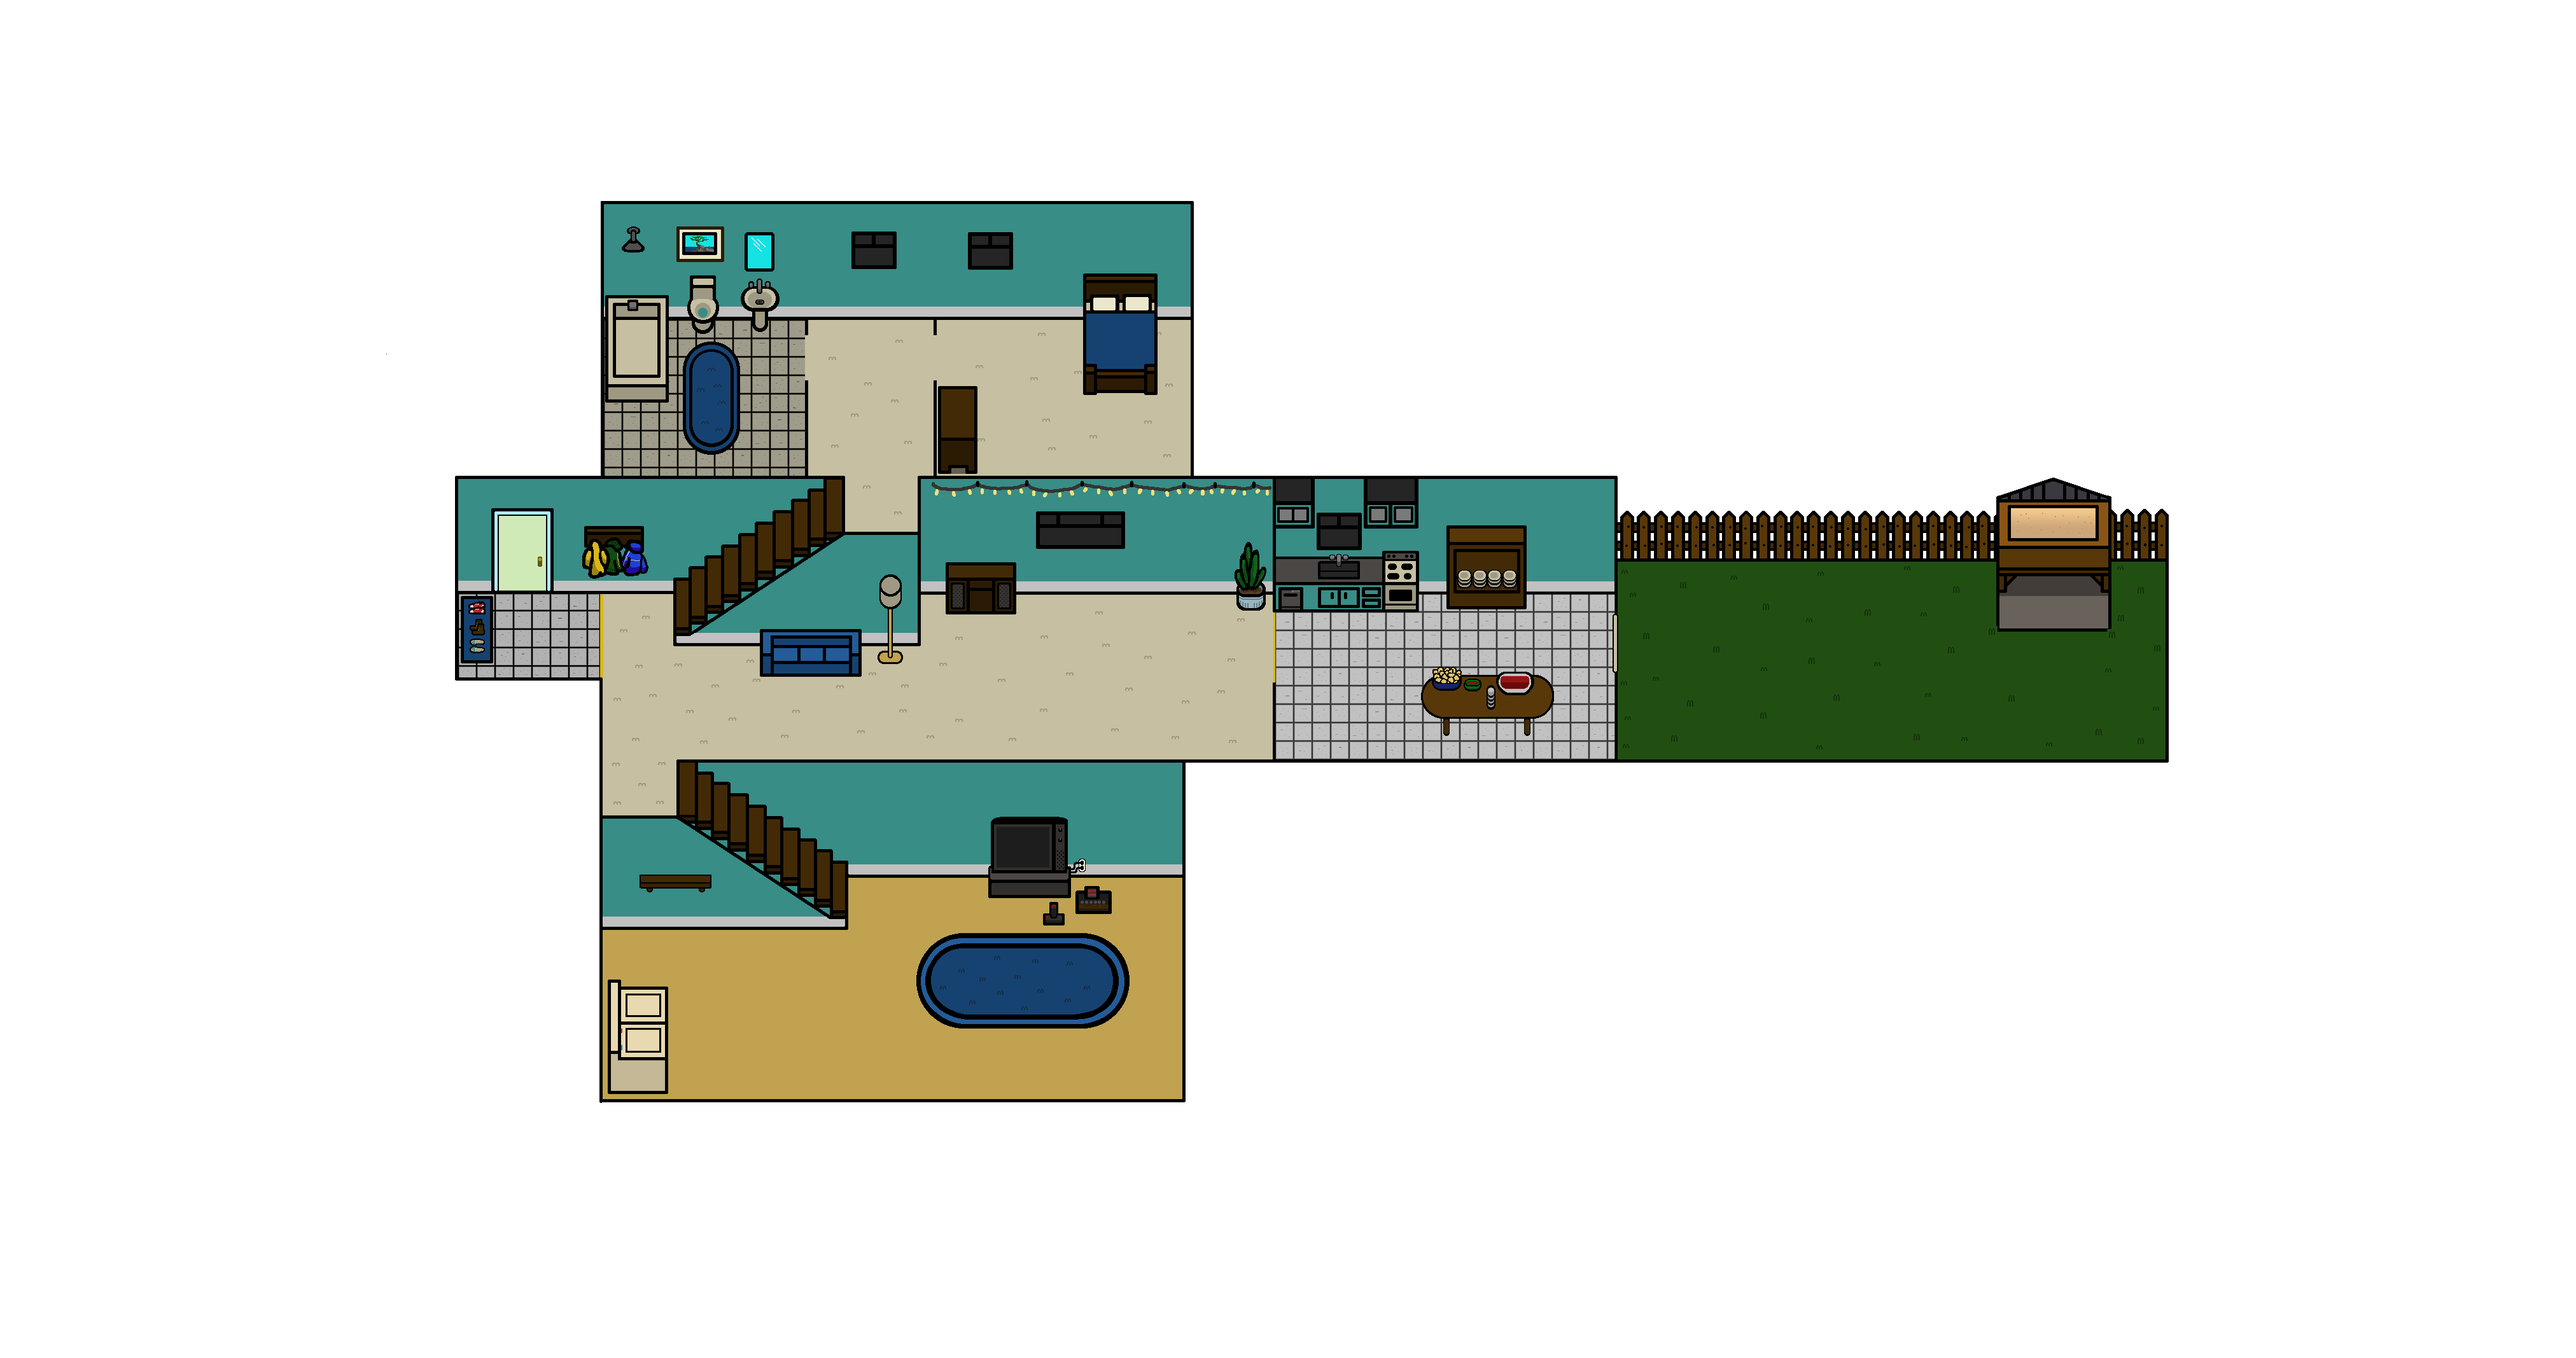
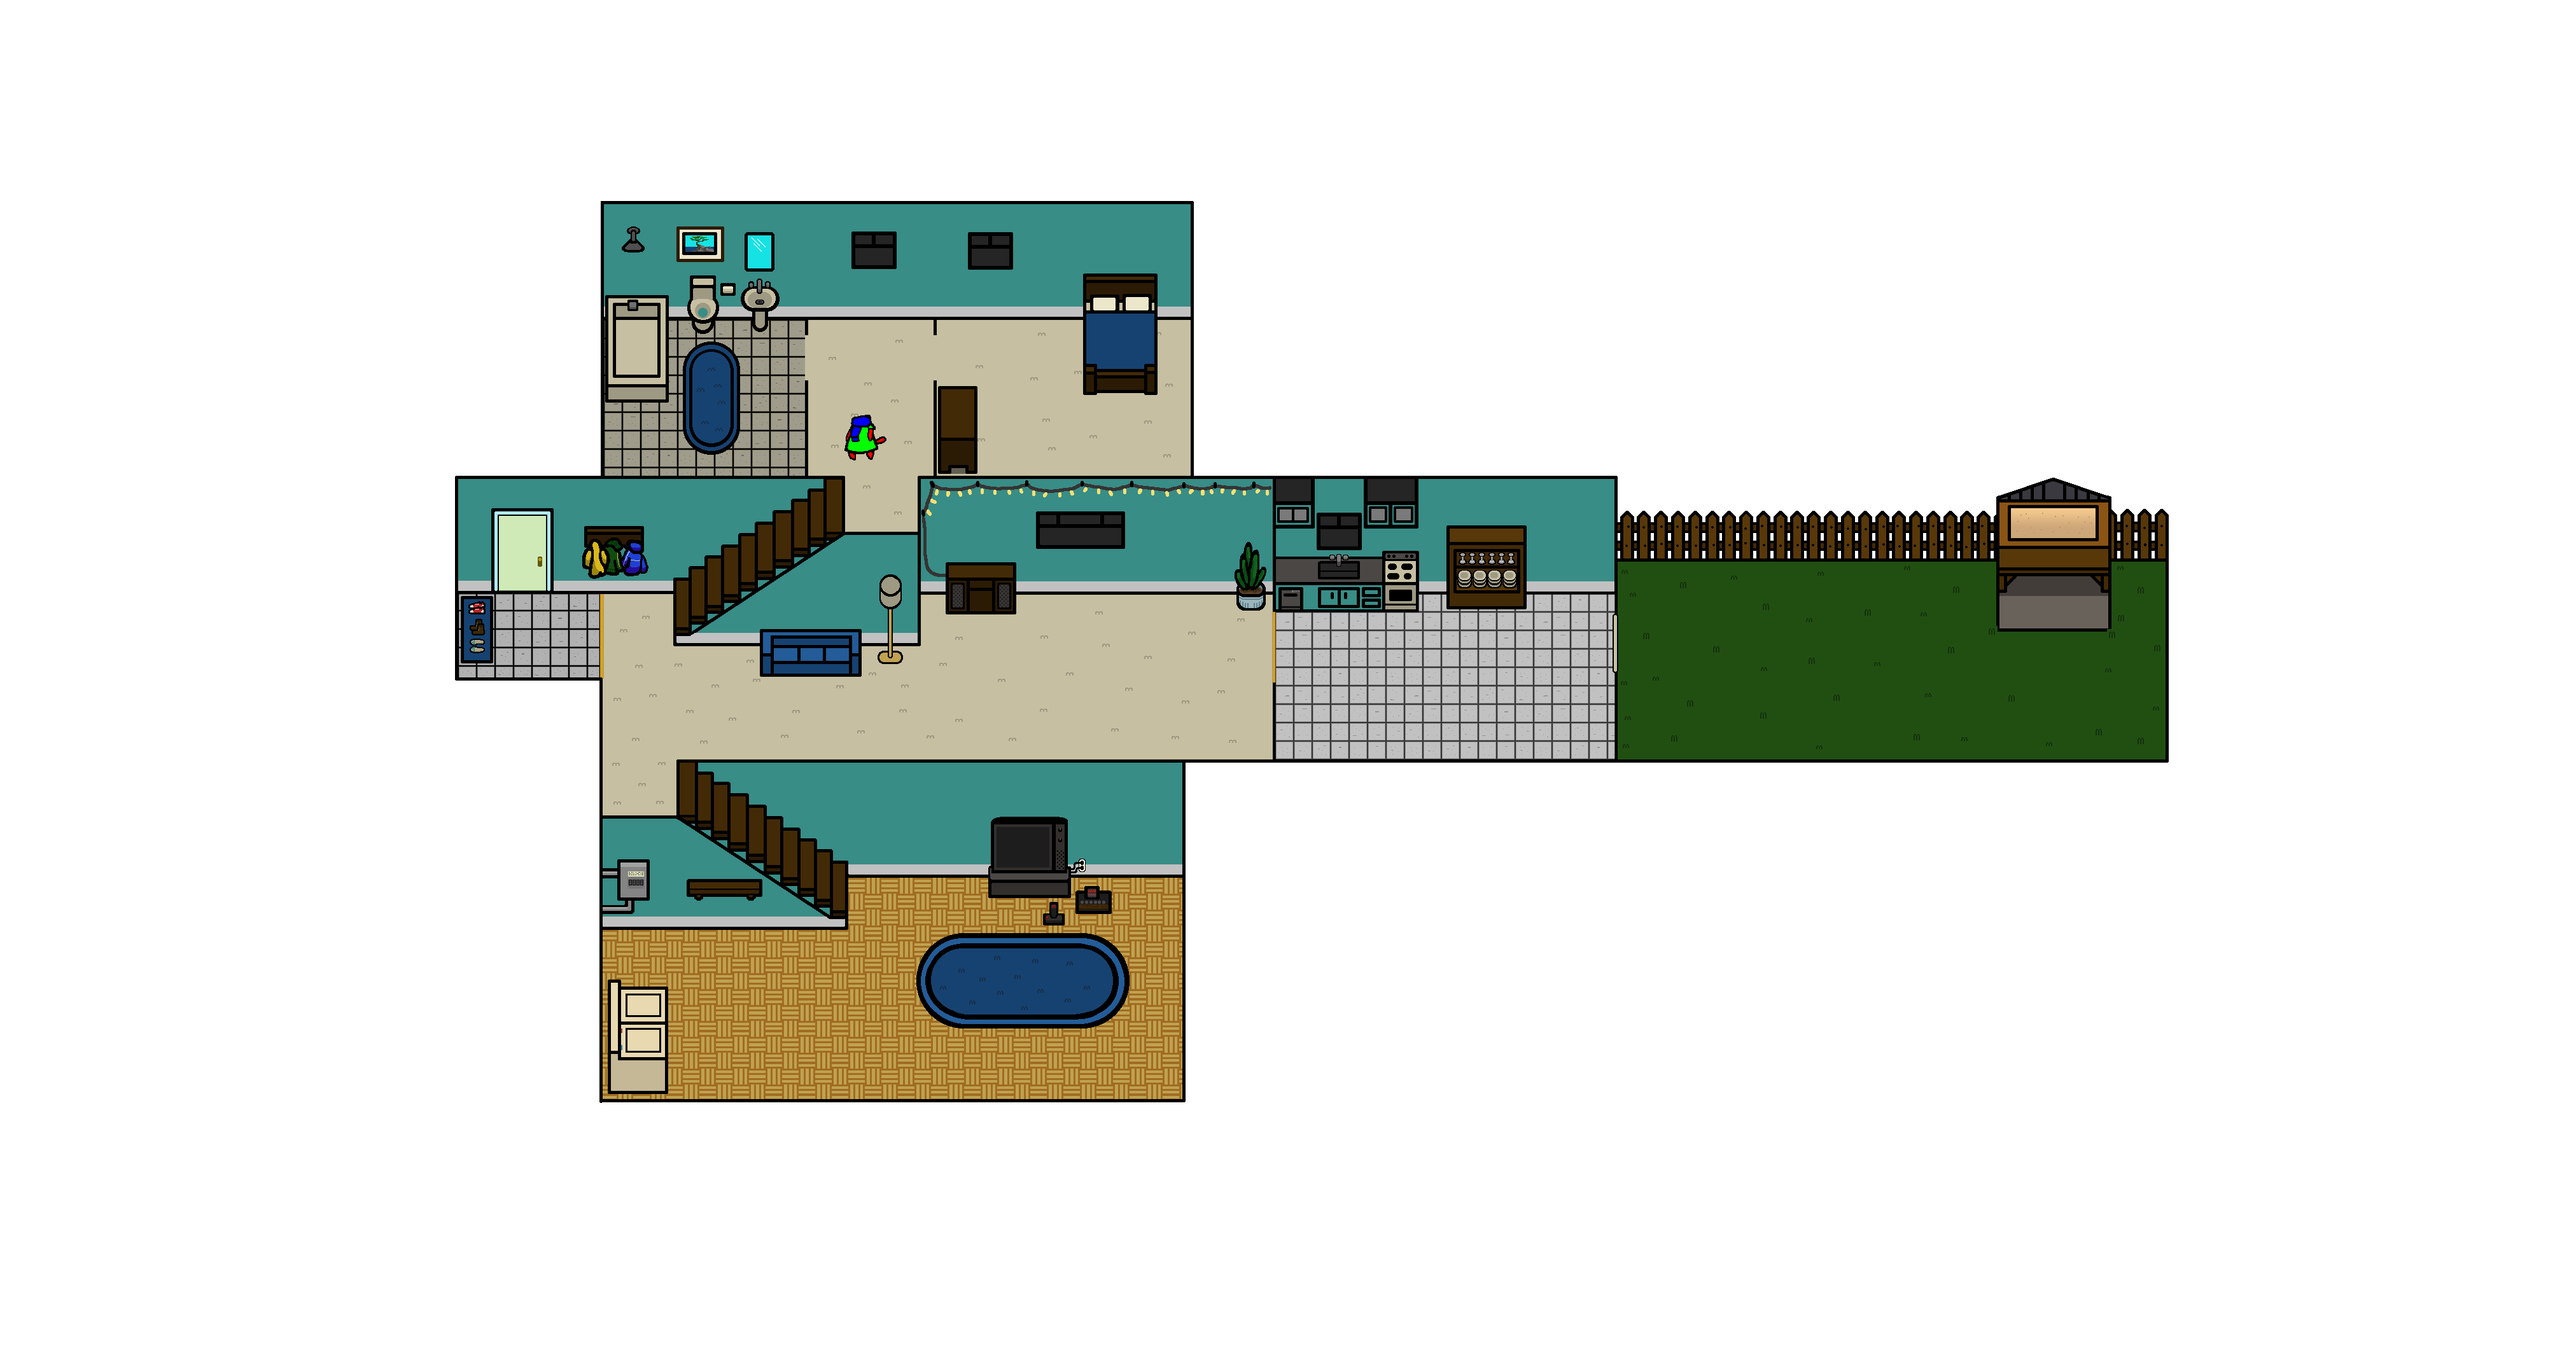
shorhand for declaring pickupable items

diff --git a/AdventureGame.cs b/AdventureGame.cs
@@ -189,6 +189,10 @@ namespace Adventure
 
 		}
 
+
+
+
+
 		/// <summary>
 		/// Allows the game to run logic such as updating the world,
 		/// checking for collisions, gathering input, and playing audio.
@@ -244,6 +248,9 @@ namespace Adventure
 			base.Update (gameTime);
 		}
 
+
+
+
         /**
          * Call to cause end of game.
          */
@@ -268,8 +275,8 @@ namespace Adventure
         public void initGame()
         {
             // Move player to start position
-            // player.position = new Vector2(1500, 1500);
-            player.position = new Vector2(825, 963);
+            player.position = new Vector2(3000, 1000);
+            // player.position = new Vector2(825, 963);
 
             // add all the entities on the map
             this.InitEntities();
@@ -281,6 +288,11 @@ namespace Adventure
                 e.Load(Content, entityBatch);
             }
         }
+
+
+
+
+
 
 		Random r = new Random ();
 		Color oldBkg = new Color (0, 0, 0);
@@ -345,6 +357,11 @@ namespace Adventure
 			base.Draw (gameTime);
 		}
 
+
+
+
+
+
 		SoundFont catSounds;
 		private void InitEntities() {
 			entities.Add (player);
@@ -385,12 +402,6 @@ namespace Adventure
 			));
 
 			entities.Add (new StaticEntity (
-				"environment/hammer",
-				new Vector2 (1300, 1100),
-				new GenericItem("I sure wish I could pick up this hammer.")
-			));
-
-			entities.Add (new StaticEntity (
 				"environment/catnip",
 				new Vector2 (1500, 1100),
 				new GenericItem("Mmm, deliious catnip...", "Too bad you're not a cat.")
@@ -398,8 +409,16 @@ namespace Adventure
 
 			entities.Add (new StaticEntity (
 				"environment/saw",
-				new Vector2 (1800, 1100),
-				new GenericItem("I see a saw. What do you see?")
+				new Vector2 (3258, 878),
+				new GenericItem("I see a saw. What do you see?"),
+				new Vector2(0, -30), new Vector2(0, -90)
+			));
+
+			entities.Add (new StaticEntity (
+				"environment/hammer",
+				new Vector2 (3196, 878),
+				new GenericItem(ItemID.BEER, "I sure wish I could pick up this hammer."),
+				new Vector2(0, -30), new Vector2(0, -90)
 			));
 
 			entities.Add (new StaticEntity (

diff --git a/entities/behaviors/NPC/GenericItem.cs b/entities/behaviors/NPC/GenericItem.cs
@@ -6,8 +6,15 @@ namespace Adventure
 	{
 		String[] description;
 		int index = 0;
+		ItemID itemId;
 		public GenericItem (params String[] description) 
 		{
+			this.itemId = ItemID.NO_ITEM;
+			this.description = description;
+		}
+
+		public GenericItem (ItemID item, params String[] description) {
+			this.itemId = item;
 			this.description = description;
 		}
 
@@ -25,8 +32,32 @@ namespace Adventure
 				);
 				this.index++;
 			} else {
+				if (this.itemId != ItemID.NO_ITEM) {
+
+					String itemName = Item.Get (this.itemId).name;
+					this.EmitSpeechOption(
+						itemName,
+						new SpeechText.Option[] {
+							new SpeechText.Option("Take it", () => {
+								this.EmitSpeech("you take the " + itemName, 
+									SpeechText.SpeechMode.PLAYER_CONTROLLED);
+								Inventory.Add(this.itemId);
+								this.entity.Kill();
+							}),
+							new SpeechText.Option("Don't take it", () => {
+								this.EmitSpeech("you don't take the " + itemName, 
+									SpeechText.SpeechMode.PLAYER_CONTROLLED);
+							}),
+						},
+						walkAway(player, entity, () => {
+						})
+					);
+
+				}
 				this.index = 0;
 			}
+
+			((PlayerBehavior) player.behavior).triggeredText = this.speechReference;
 		}
 
 	}

diff --git a/entities/behaviors/PlayerBehavior.cs b/entities/behaviors/PlayerBehavior.cs
@@ -12,6 +12,8 @@ namespace Adventure
 		double speedy = 190;
 		double interactionRadius = 100;
 
+		public SpeechText triggeredText;
+
 		public PlayerBehavior (SoundFont s = null) : base(s)
 		{
 		}
@@ -21,7 +23,12 @@ namespace Adventure
 			UpdateMotion(time);
 	
 			// update highlights
-			UpdateHighlights();
+			if (triggeredText != null && !triggeredText.alive) {
+				triggeredText = null;
+			}
+			if (triggeredText == null) {
+				UpdateHighlights ();
+			}
 
 			if (Inventory.SelectedItemID != ItemID.NO_ITEM) {
 				this.character.heldItem = Inventory.SelectedItemID;

diff --git a/entities/behaviors/NPC/GrabbableItem.cs b/entities/behaviors/NPC/GrabbableItem.cs
@@ -1,0 +1,12 @@
+using System;
+
+namespace Adventure
+{
+	public class GrabbableItem
+	{
+		public GrabbableItem ()
+		{
+		}
+	}
+}
+
